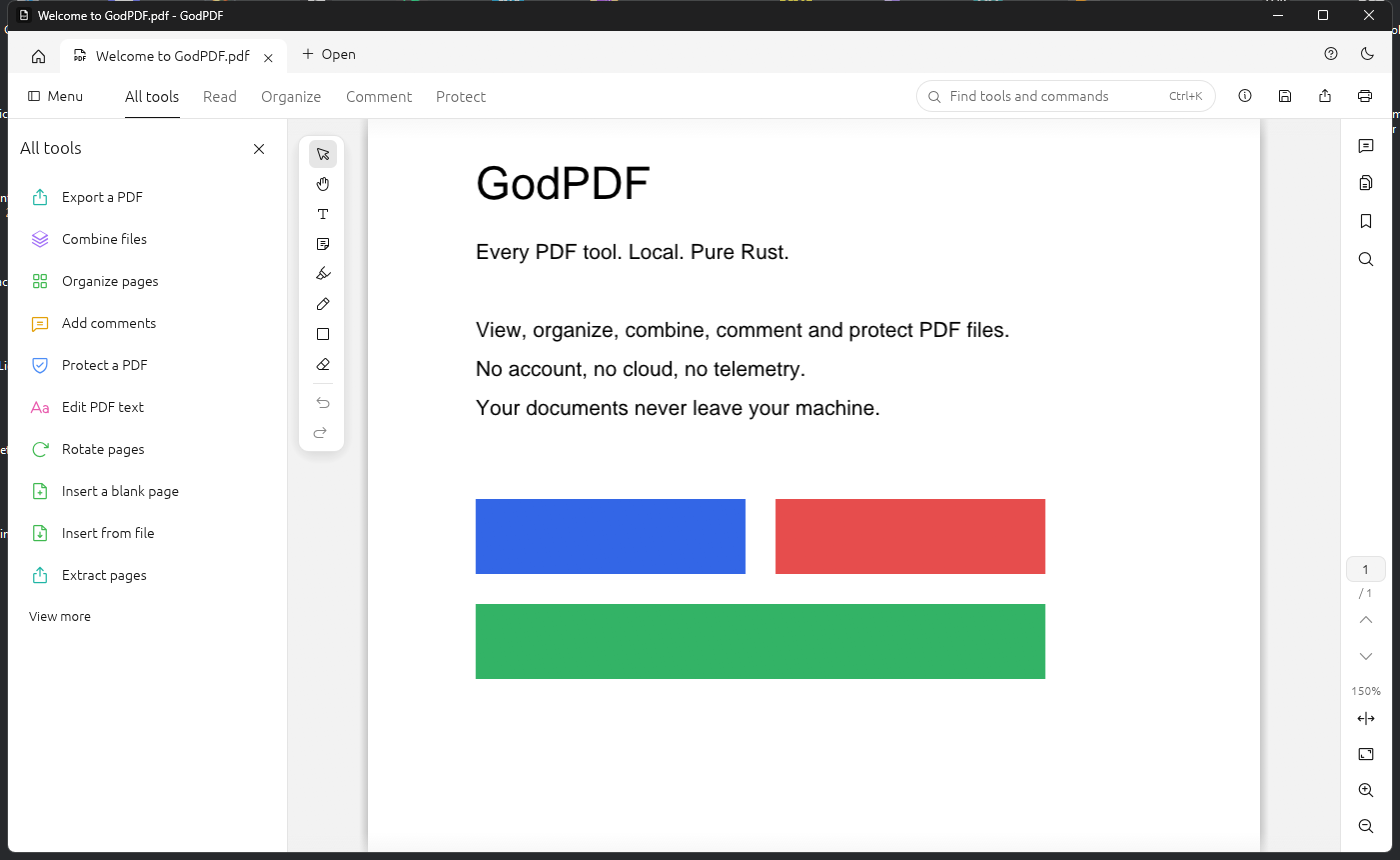
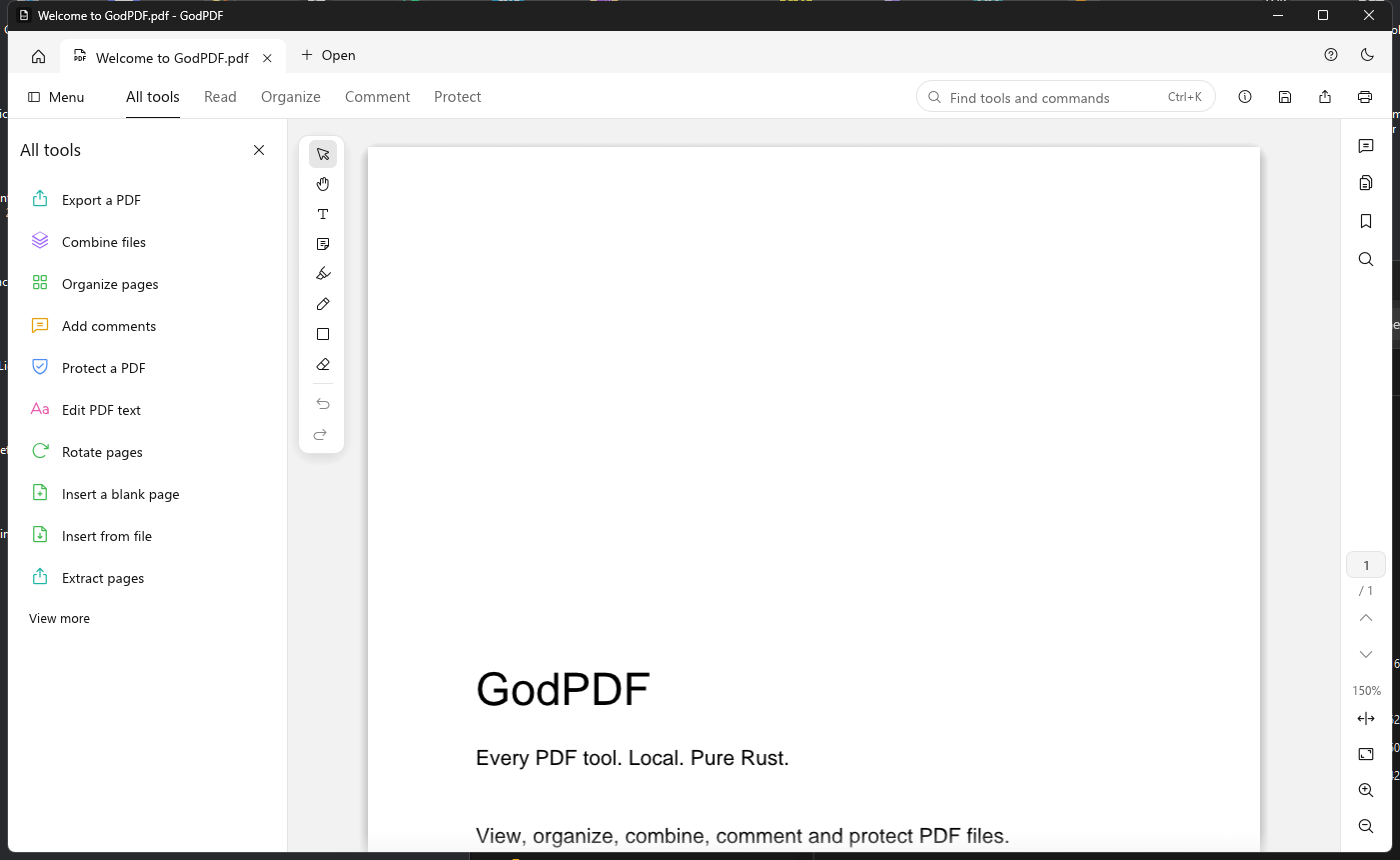
feat: the interface is drawn with the font of the system
Segoe UI on Windows; the font that comes with egui stays behind it.

diff --git a/crates/app/src/app.rs b/crates/app/src/app.rs
@@ -78,6 +78,20 @@ pub struct GodApp {
     edit_text: bool,
 }
 
+/// Draw the interface with the font of the system (Segoe UI on Windows) when it is there;
+/// the one that comes with egui stays behind it, for what it lacks.
+fn system_ui_font(fonts: &mut egui::FontDefinitions) {
+    let folder = std::env::var_os("WINDIR").map(std::path::PathBuf::from);
+    let file = folder.map(|folder| folder.join("Fonts").join("segoeui.ttf"));
+    let Some(bytes) = file.and_then(|file| std::fs::read(file).ok()) else {
+        return;
+    };
+    let data = egui::FontData::from_owned(bytes);
+    fonts.font_data.insert("system-ui".to_owned(), data.into());
+    let family = fonts.families.entry(egui::FontFamily::Proportional);
+    family.or_default().insert(0, "system-ui".to_owned());
+}
+
 impl GodApp {
     /// `files` are opened at startup (command line / "Open with").
     pub fn new(cc: &eframe::CreationContext<'_>, files: Vec<PathBuf>) -> Self {
@@ -88,6 +102,7 @@ impl GodApp {
         theme::install(&cc.egui_ctx, dark);
         let mut fonts = egui::FontDefinitions::default();
         egui_phosphor::add_to_fonts(&mut fonts, egui_phosphor::Variant::Regular);
+        system_ui_font(&mut fonts);
         textbox::install_font(&mut fonts);
         cc.egui_ctx.set_fonts(fonts);
         let recent = get("recent")
